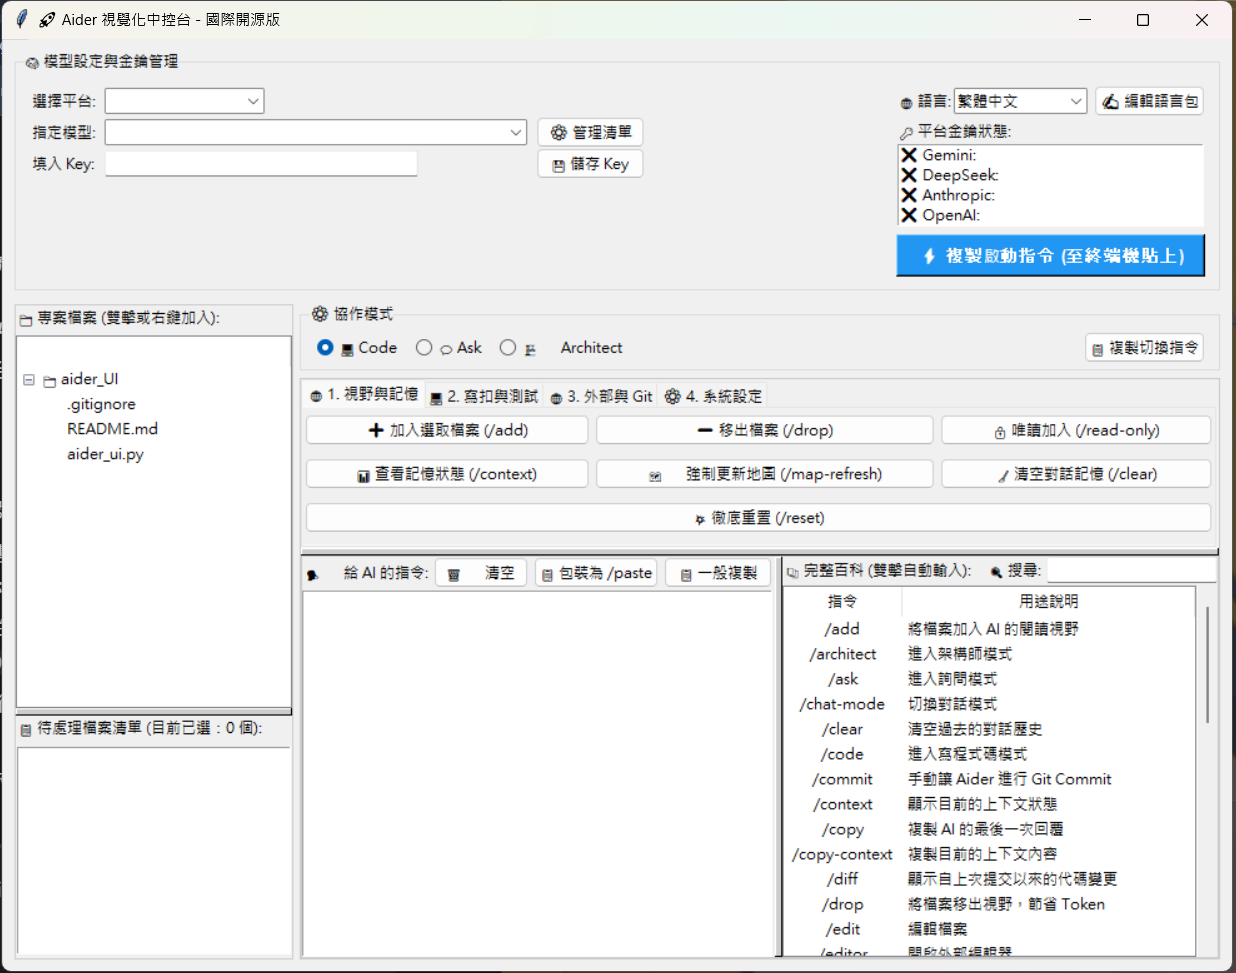
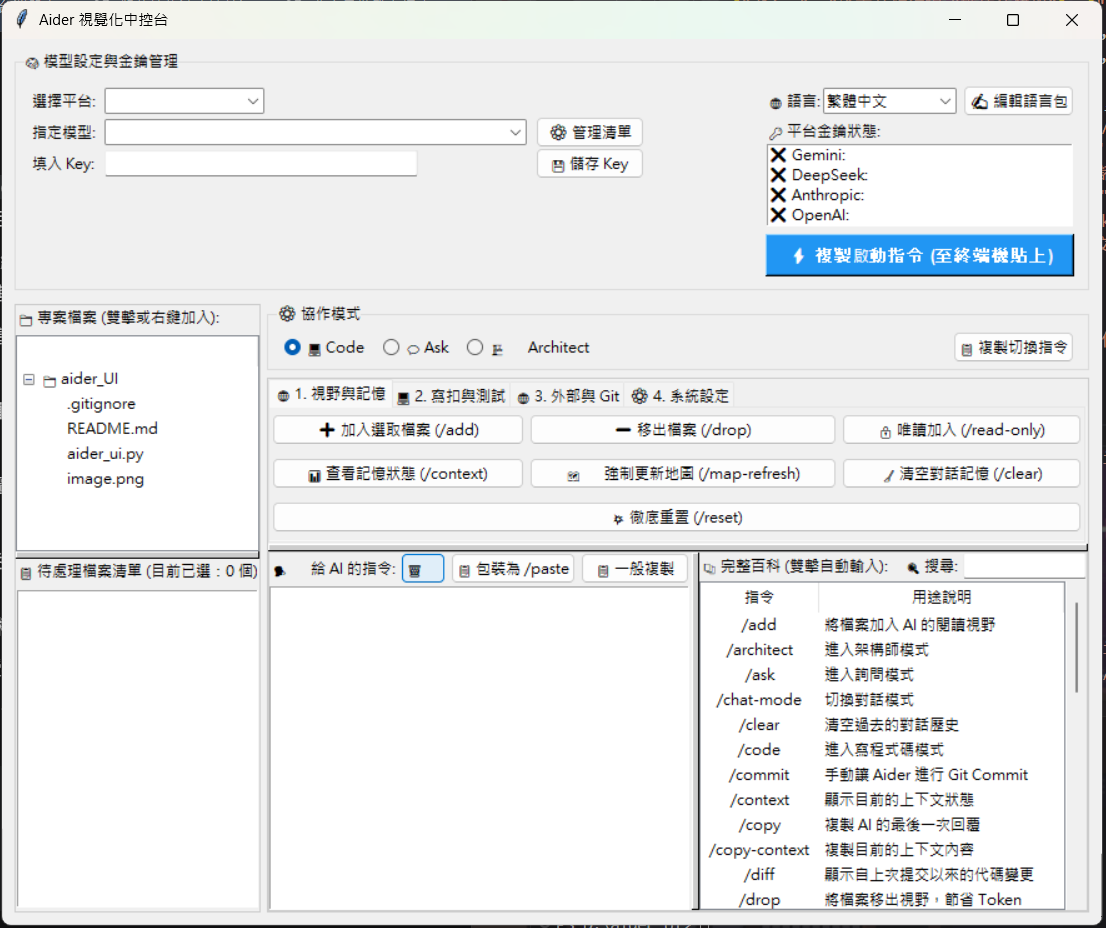
0

Changed region(s): [[0.0, 0.0, 1.0, 1.0], [0.0, 0.0, 0.5841, 0.1875], [0.8915, 0.0, 0.9222, 0.0312]]

diff --git a/aider_ui.py b/aider_ui.py
@@ -14,7 +14,7 @@ LANG_FILE = os.path.expanduser("~/.aider_ui_langs.json")
 DEFAULT_LANGS = {
     "zh_TW": {
         "lang_name": "繁體中文",
-        "app_title": "🚀 Aider 視覺化中控台 - 國際開源版",
+        "app_title": "Aider 視覺化中控台",
         "settings_title": "🧠 模型設定與金鑰管理",
         "platform": "選擇平台:",
         "model": "指定模型:",
@@ -116,7 +116,7 @@ DEFAULT_LANGS = {
     },
     "en": {
         "lang_name": "English",
-        "app_title": "🚀 Aider Visual Console - Open Source Edition",
+        "app_title": "Aider Visual Console",
         "settings_title": "🧠 Model & API Key Settings",
         "platform": "Platform:",
         "model": "Model:",
